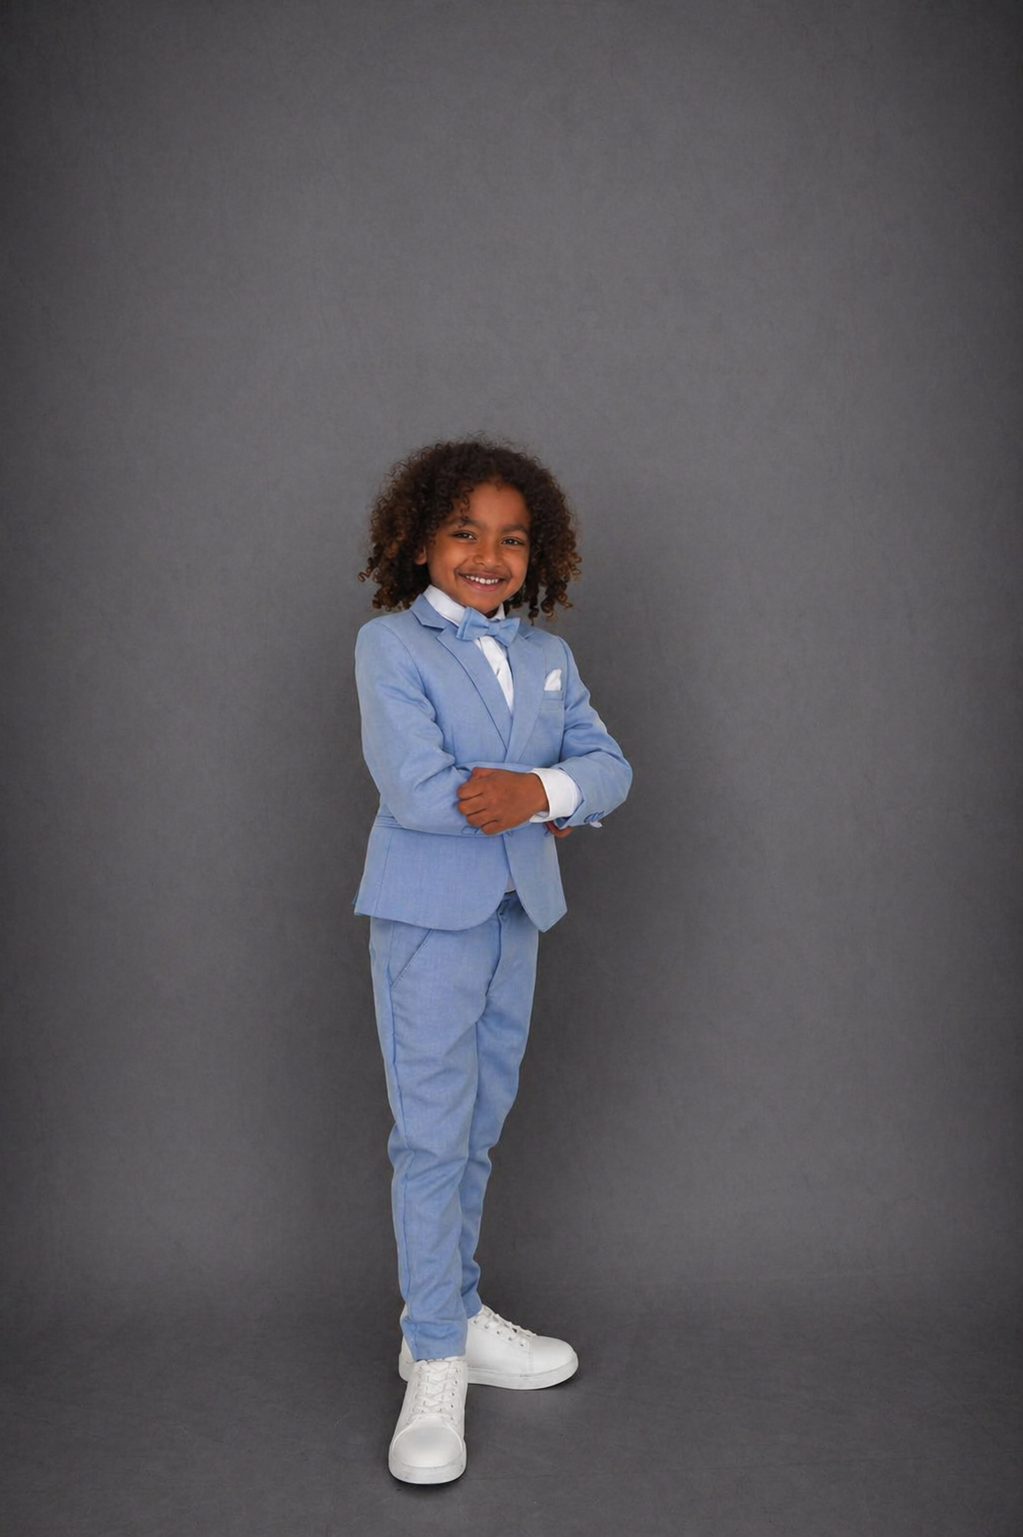
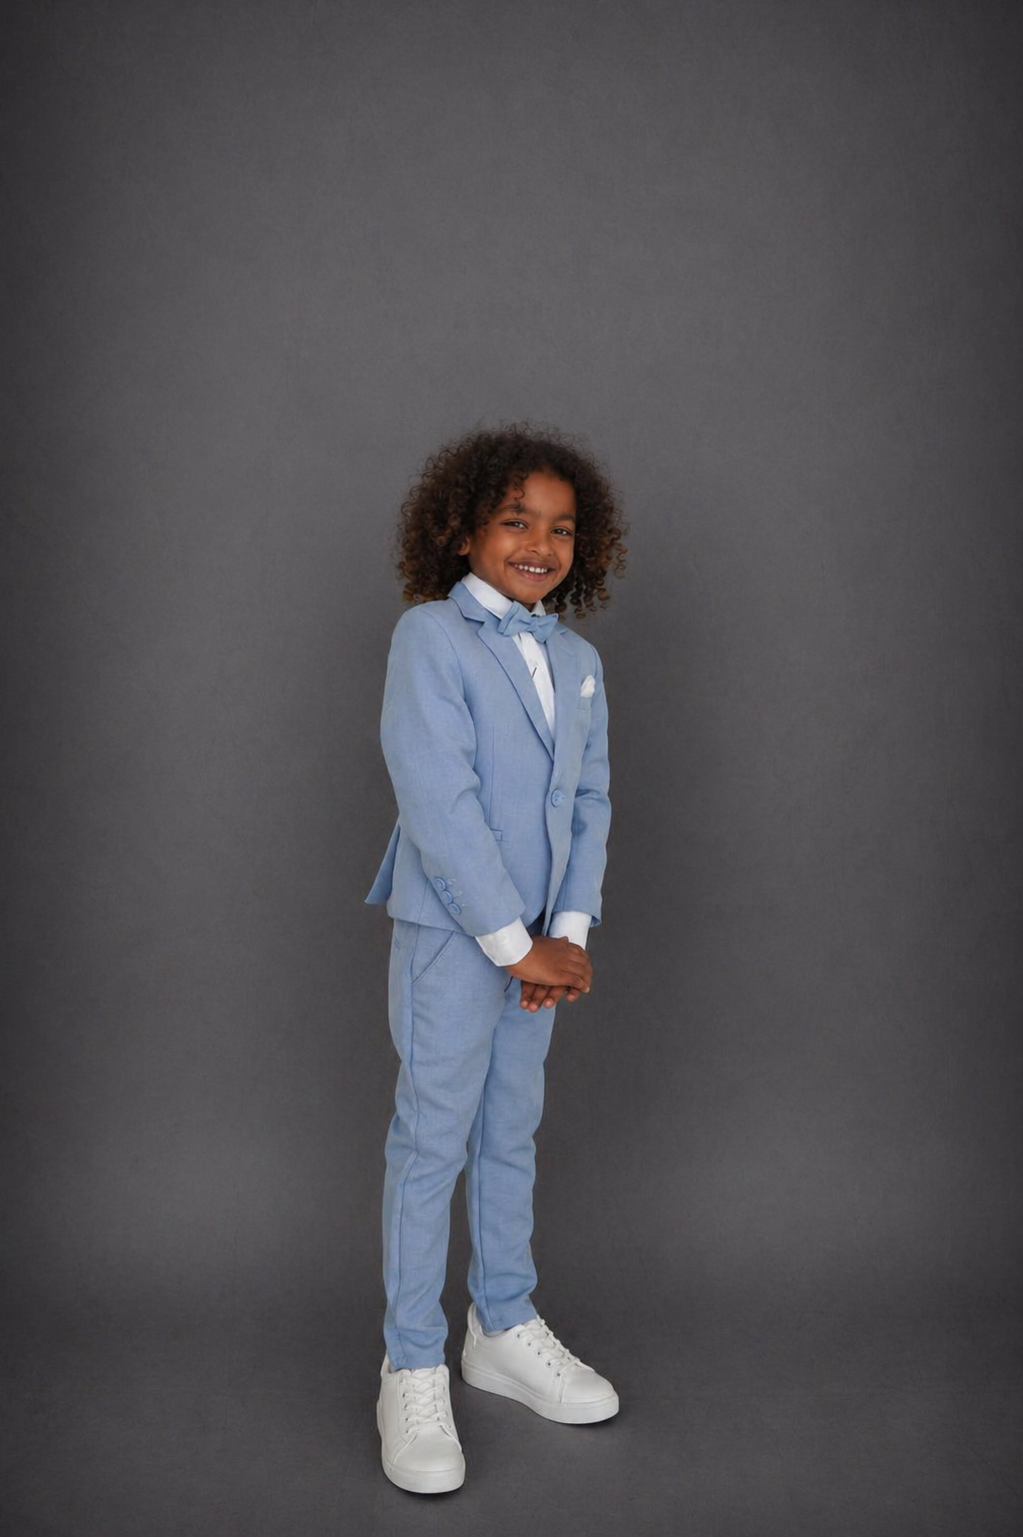
Move primary tuxedo image to children sky-blue
- y-suit-parade__tuxedo-black: 2 images
- c-suit-parade__sky-blue: 5 images

Changed region(s): [[0.3333, 0.2498, 0.6364, 0.9993], [0.6061, 0.812, 0.6364, 0.8432]]

diff --git a/index.html b/index.html
@@ -797,8 +797,8 @@ const IMAGES={
   'y-suit-linen__mint-green':['photos/youth-linen-mint-1.png','photos/youth-linen-mint-2.png','photos/youth-linen-mint-3.png','photos/youth-linen-mint-4.png','photos/youth-linen-mint-5.png','photos/youth-linen-mint-6.png'],
   'y-suit-parade__light-grey':['photos/youth-parade-1.png','photos/youth-parade-2.png','photos/youth-parade-3.png','photos/youth-parade-4.png','photos/youth-parade-5.png'],
   'y-suit-parade__mint-green':['photos/youth-parade-mint-1.png','photos/youth-parade-mint-2.png','photos/youth-parade-mint-3.png','photos/youth-parade-mint-4.png','photos/youth-parade-mint-5.png'],
-  'y-suit-parade__tuxedo-black':['photos/youth-parade-tuxedo-1.png','photos/youth-parade-tuxedo-2.png','photos/youth-parade-tuxedo-3.png'],
-  'c-suit-parade__sky-blue':['photos/child-parade-sky-1.png','photos/child-parade-sky-2.png','photos/child-parade-sky-3.png','photos/child-parade-sky-4.png'],
+  'y-suit-parade__tuxedo-black':['photos/youth-parade-tuxedo-1.png','photos/youth-parade-tuxedo-2.png'],
+  'c-suit-parade__sky-blue':['photos/child-parade-sky-1.png','photos/child-parade-sky-2.png','photos/child-parade-sky-3.png','photos/child-parade-sky-4.png','photos/child-parade-sky-5.png'],
   'y-suit-parade__sky-blue':['photos/youth-parade-sky-1.png','photos/youth-parade-sky-2.png','photos/youth-parade-sky-3.png','photos/youth-parade-sky-4.png'],
   'c-suit-linen__light-grey':['photos/child-linen-grey-1.png','photos/child-linen-grey-2.png','photos/child-linen-grey-3.png','photos/child-linen-grey-4.png'],
   'c-suit-linen__sky-blue':['photos/child-linen-sky-1.png'],
